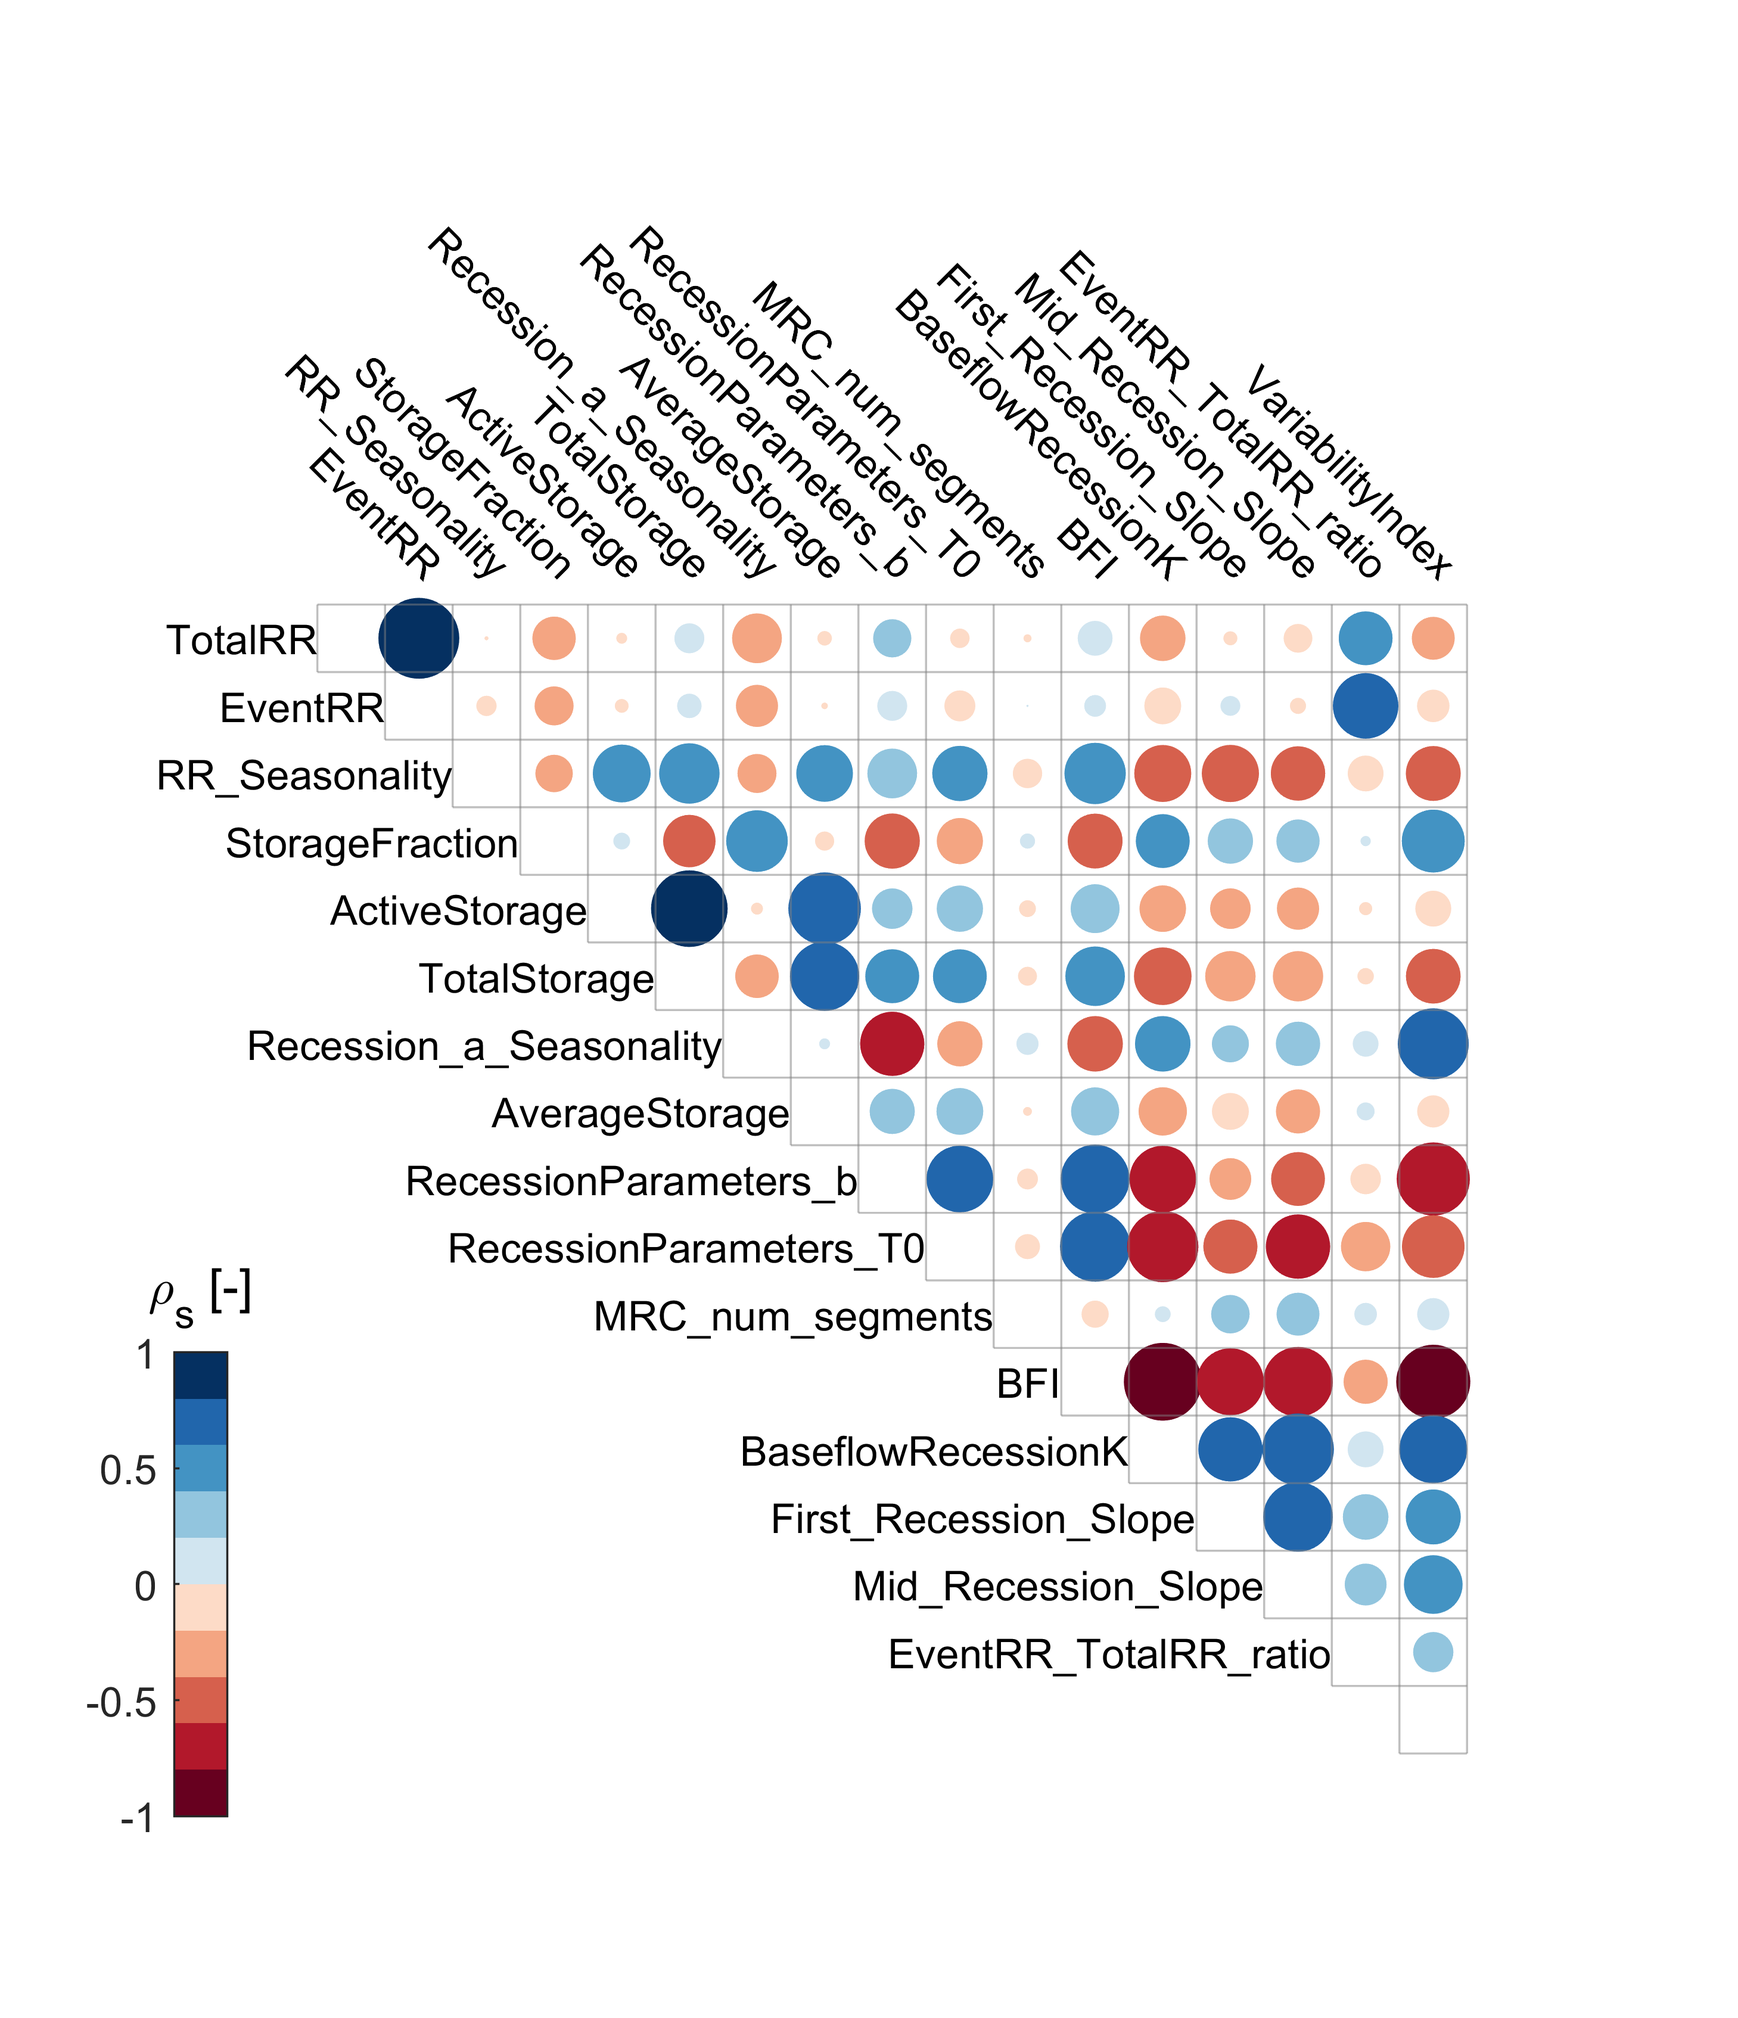
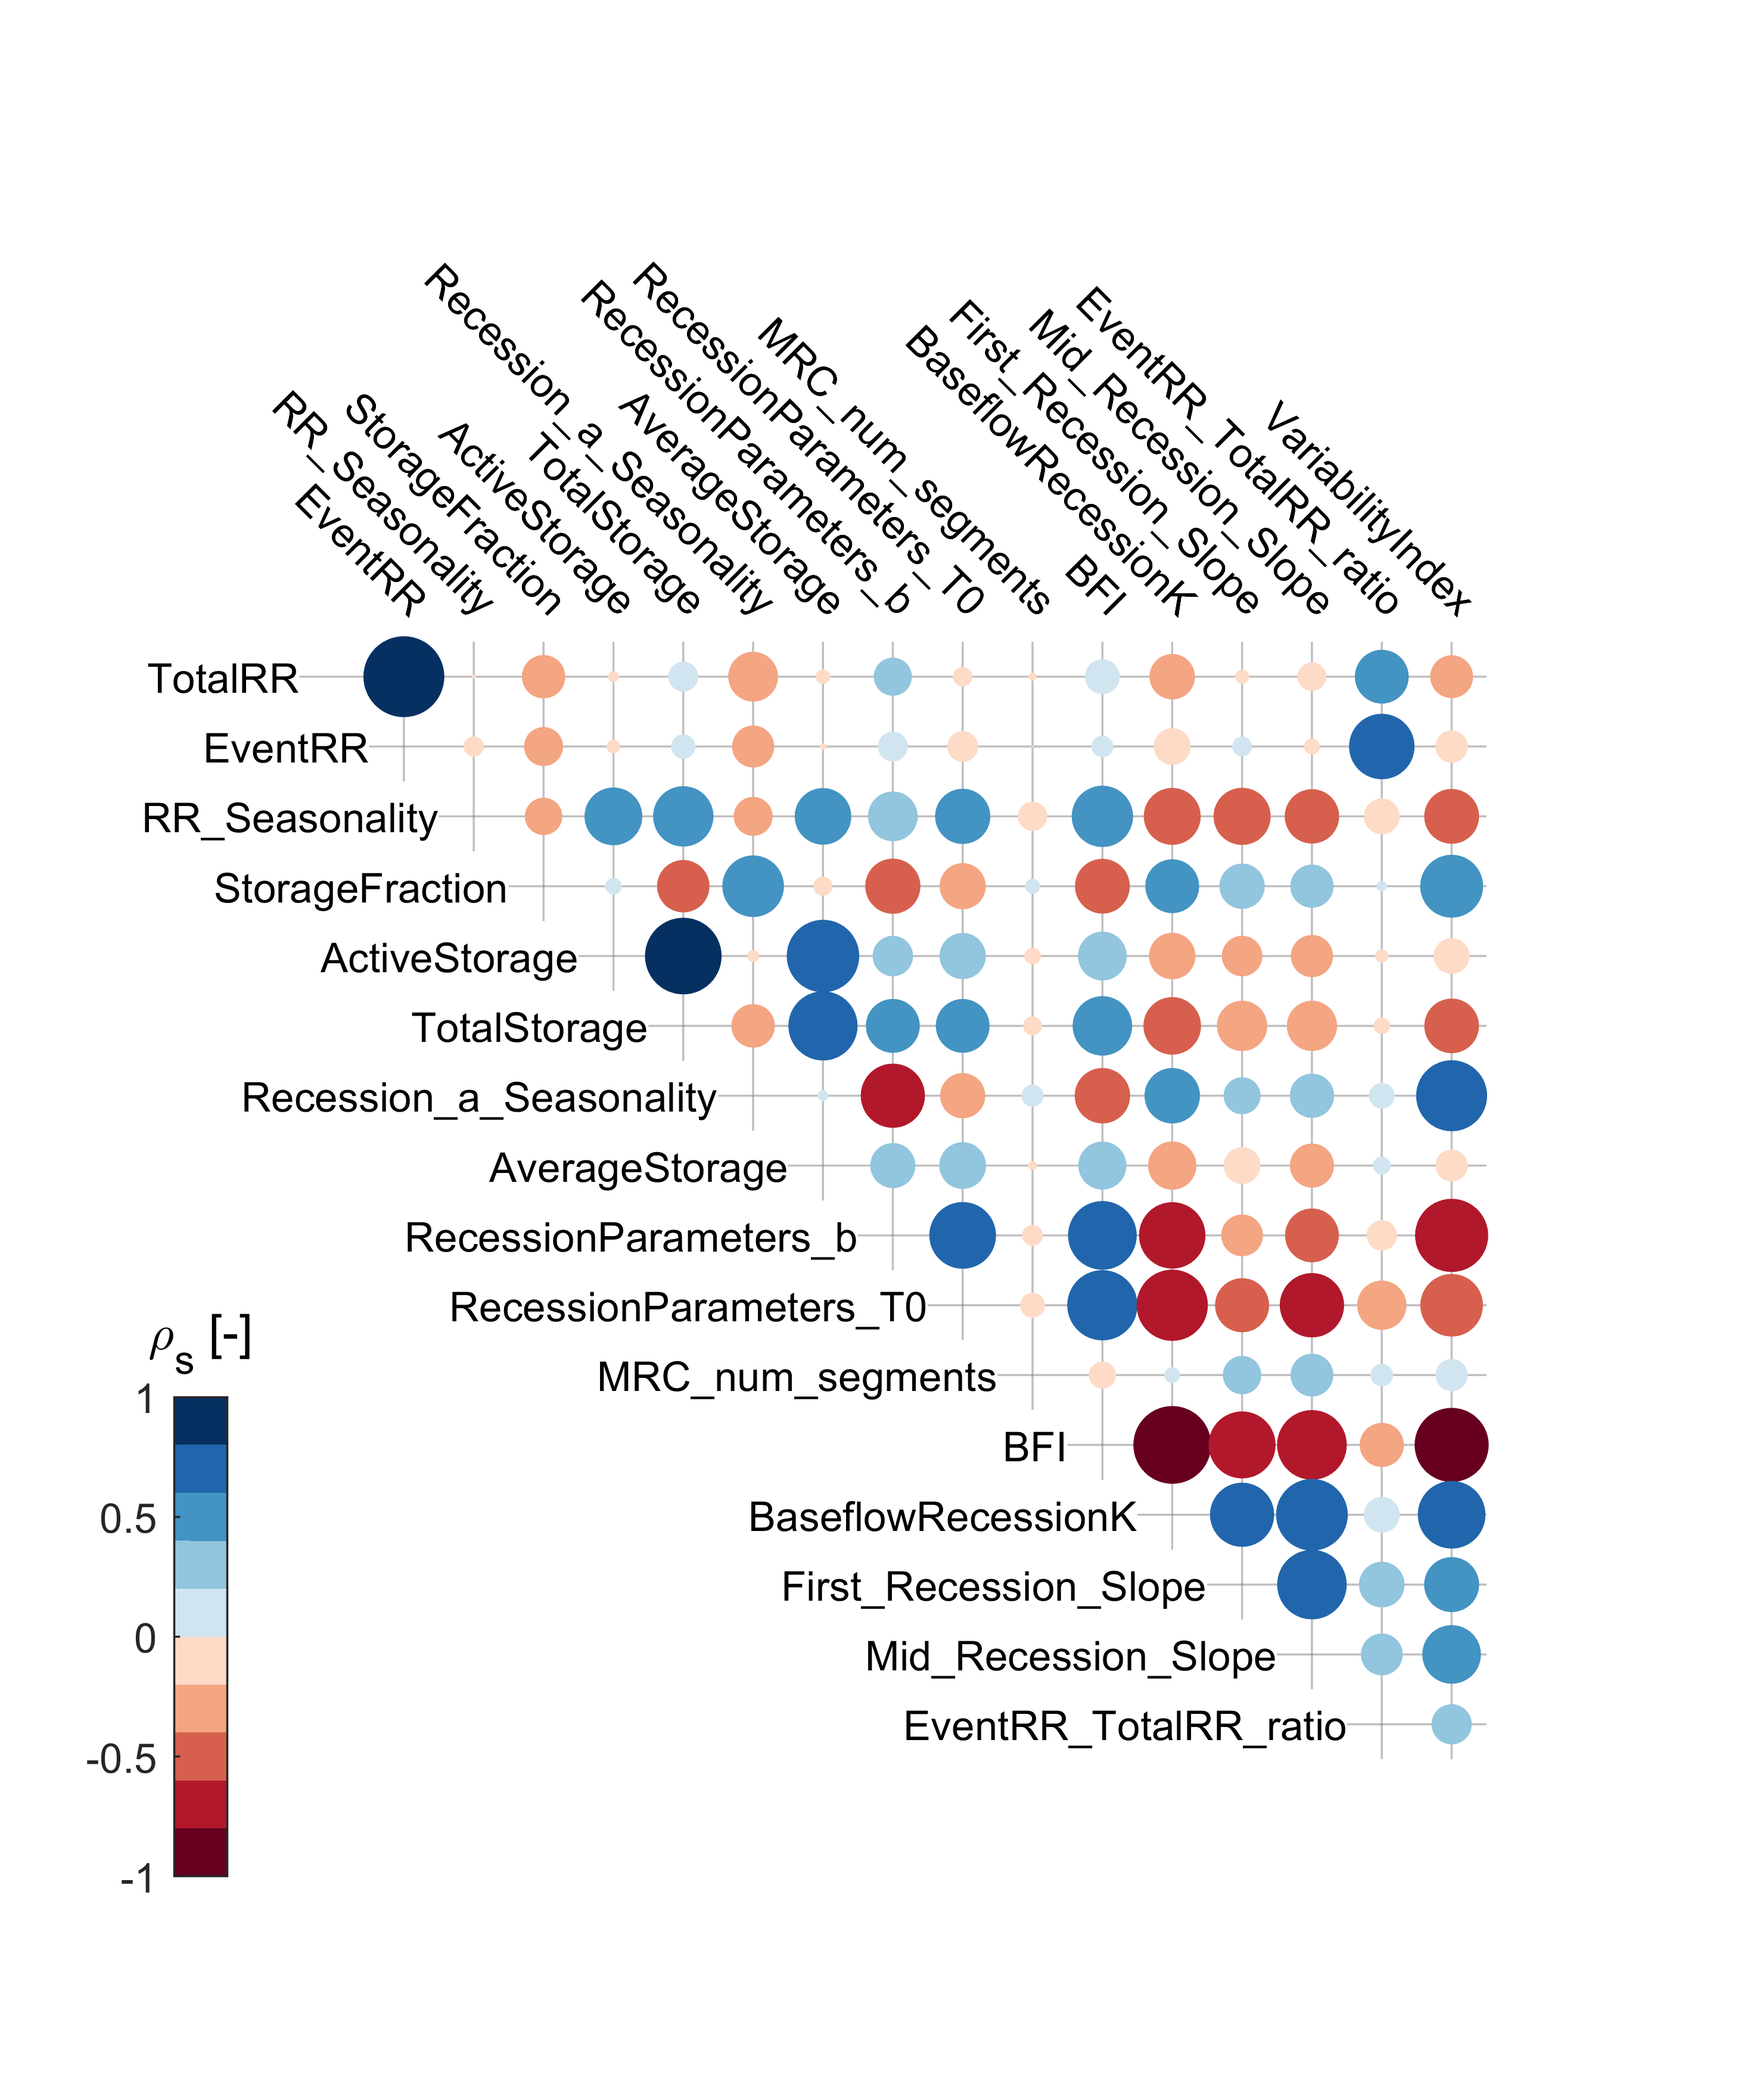
add grid lines to correlation plot

Changed region(s): [[0.0624, 0.124, 0.8735, 0.837], [0.2496, 0.124, 0.2808, 0.155]]

diff --git a/functions/correlationMatrixCircles.m b/functions/correlationMatrixCircles.m
@@ -3,9 +3,9 @@ function correlationMatrixCircles(rho,signature_names,set,fig_path)
 % creates plot showing correlation matrix
 
 if strcmp(set,'gw')
-    fig = figure('pos',[10 10 560 672]);
+    fig = figure('pos',[10 10 560 672]); hold on
 elseif strcmp(set,'of')
-    fig = figure('pos',[10 10 320 384]);
+    fig = figure('pos',[10 10 320 384]); hold on
 else
     error('Set not defined.')
 end
@@ -13,18 +13,23 @@ r = rho;
 r(r==1) = NaN;
 % labels
 labels = signature_names;
-% scatter plot
+% enclose markers in a grid
 n = size(r, 1);
+% xl = [1:n+1;repmat(n+1, 1, n+1)];
+% xl = [xl(:, 1), xl(:, 1:end-1)];
+% yl = repmat(n+1:-1:1, 2, 1);
+xl = [2:n;repmat(n+1, 1, n-1)];
+xl = [xl(:, 1), xl(:, 1:end-1)];
+xl2 = xl; 
+xl2(1,1) = 1;
+yl = repmat(n+0.5:-1:2.5, 2, 1);
+line(xl2, yl, 'color', [.5 .5 .5 .5]) % horizontal lines
+line(yl, xl, 'color', [.5 .5 .5 .5]) % vertical lines
+% scatter plot
 y = triu(repmat(n+1, n, n) - (1:n)') + 0.5;
 x = triu(repmat(1:n, n, 1)) + 0.5;
 x(x == 0.5) = NaN;
 scatter(x(:), y(:), 400.*abs(r(:)), r(:), 'filled', 'MarkerFaceAlpha', 1.0)
-% enclose markers in a grid
-xl = [1:n+1;repmat(n+1, 1, n+1)];
-xl = [xl(:, 1), xl(:, 1:end-1)];
-yl = repmat(n+1:-1:1, 2, 1);
-line(xl, yl, 'color', [.5 .5 .5 .5]) % horizontal lines
-line(yl, xl, 'color', [.5 .5 .5 .5]) % vertical lines
 % show labels
 text(1:n-1, (n-1:-1:1) + 1.5, labels(1:end-1), 'HorizontalAlignment', 'right','Interpreter','None')
 text((2:n) + 0.75, repmat(n + 1, n-1, 1) + 0.5, labels(2:end), ...
